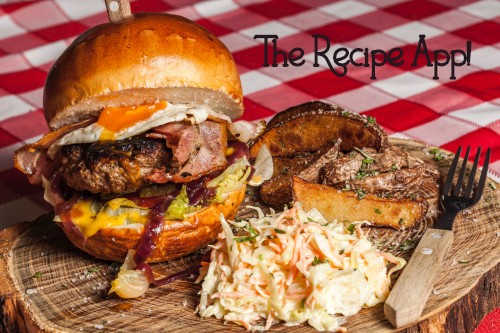
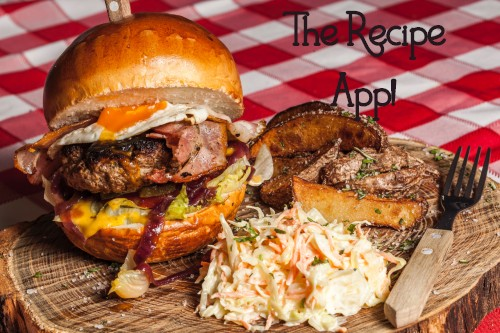
upload

Changed region(s): [[0.51, 0.03, 0.96, 0.3604]]

diff --git a/RecipeApp/index.html b/RecipeApp/index.html
@@ -10,7 +10,7 @@
 <body class="background">
     <header>
         <img src="images/heroImagesm.jpg" alt="hamburger and all of the fixings" class="heroPic">
-        <h1>The Recipe App!</h1>
+        <!-- <h1>The Recipe App!</h1> -->
         <hr>
     </header>
     <nav class="topnav">
